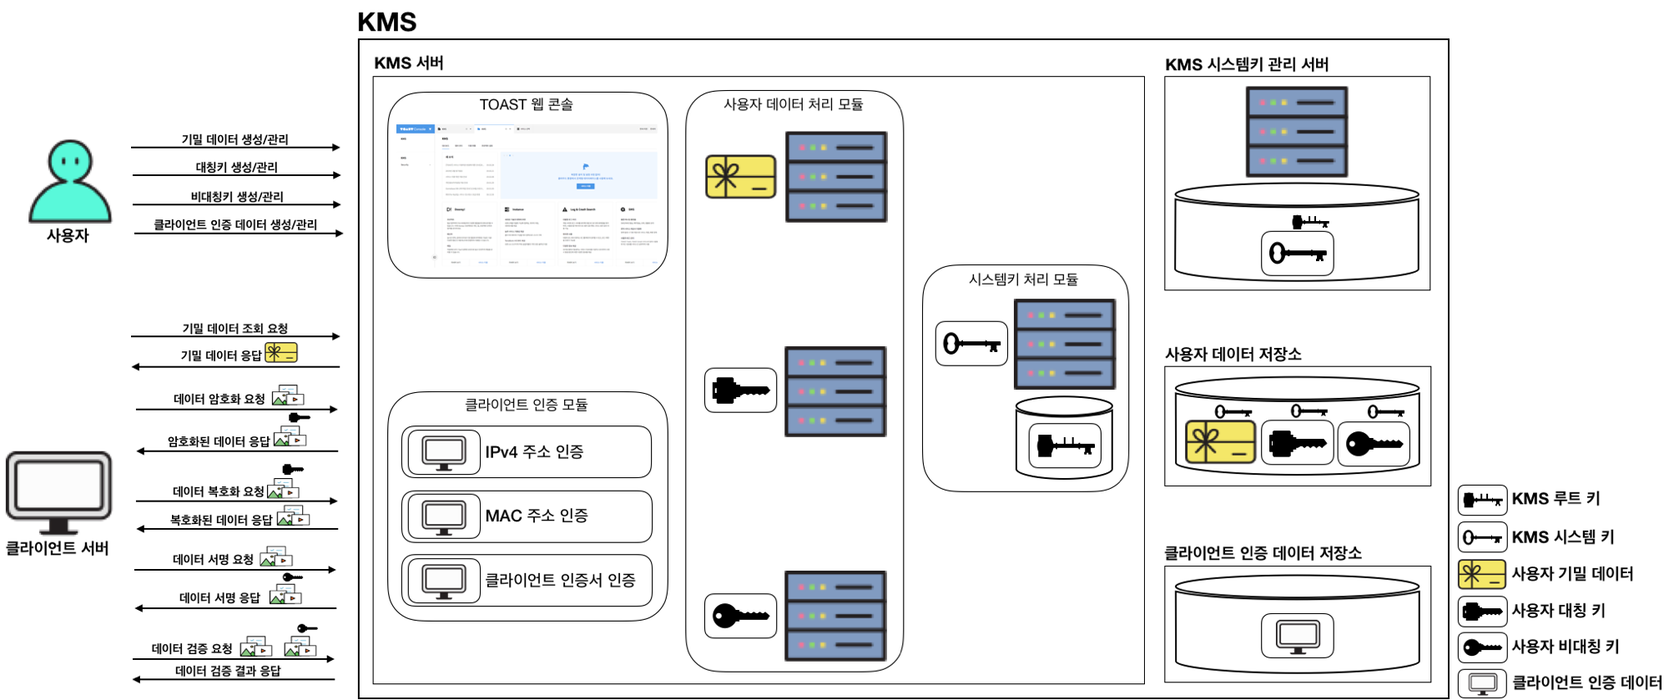
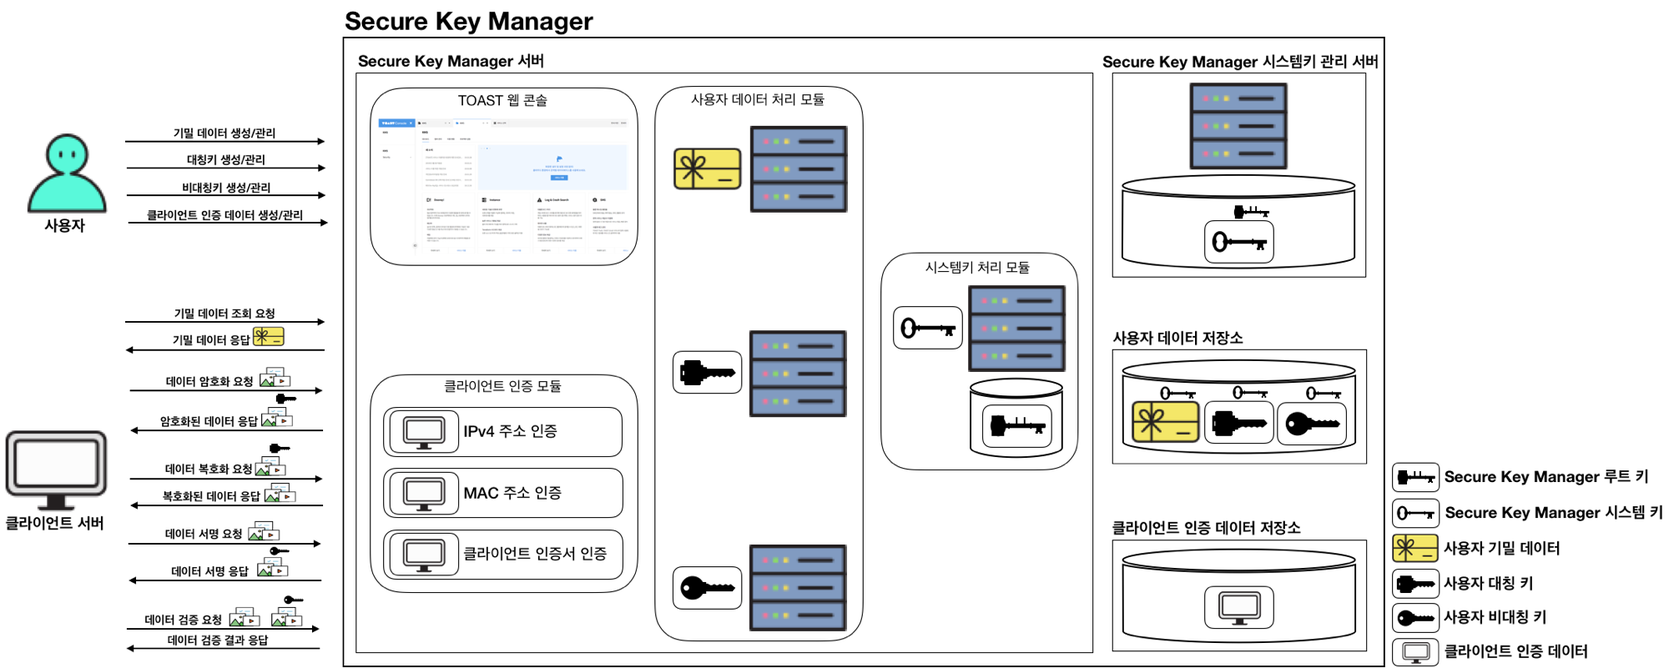
#인프라플랫폼개발팀-업무/439 * KMS 가이드 문서 작성

diff --git a/ko/overview.md b/ko/overview.md
@@ -1,5 +1,5 @@
-## Security > KMS > 개요
-KMS(Key Management Service)는 사용자의 중요 데이터를 안전하게 보관하고 접근 권한을 제어하는 서비스입니다. 사용자는 KMS에 기밀 데이터, 대칭키, 비대칭키를 저장할 수 있습니다. KMS에 저장한 데이터는 사용자가 설정한 인증 방법을 통과한 클라이언트만 접근할 수 있습니다.
+## Security > Secure Key Manager > 개요
+Secure Key Manager는 사용자의 중요 데이터를 안전하게 보관하고 접근 권한을 제어하는 서비스입니다. 사용자는 Secure Key Manager에 기밀 데이터, 대칭키, 비대칭키를 저장할 수 있습니다. Secure Key Manager에 저장한 데이터는 사용자가 설정한 인증 방법을 통과한 클라이언트만 접근할 수 있습니다.
 
 ### 주요 기능
 * 데이터 관리
@@ -12,44 +12,44 @@ KMS(Key Management Service)는 사용자의 중요 데이터를 안전하게 보
     * 클라이언트 인증서를 사용한 데이터 접근 제어
 
 ### 기능 설명
-KMS는 사용자의 중요 데이터를 안정하게 보관하고 접근 권한을 제어하는 기능을 제공합니다. KMS로 관리할 수 있는 데이터는 기밀 데이터, 대칭키, 비대칭키로 구분할 수 있습니다.
+Secure Key Manager는 사용자의 중요 데이터를 안정하게 보관하고 접근 권한을 제어하는 기능을 제공합니다. Secure Key Manager로 관리할 수 있는 데이터는 기밀 데이터, 대칭키, 비대칭키로 구분할 수 있습니다.
 
 #### 기밀 데이터 관리
-기밀 데이터 관리는 데이터베이스 접속 정보, API 호출에 사용하는 AppKey 등 클라이언트가 직접 관리할 경우 보안 위험에 노출될 수 있는 데이터를 관리하는 기능을 제공합니다. 사용자는 32KB 이하의 텍스트 데이터를 기밀 데이터로 등록할 수 있습니다. 등록한 기밀 데이터에는 사용자가 설정한 인증 방법을 통과한 클라이언트만 접근할 수 있습니다. 기밀 데이터 관리의 활용 방안은 "참고 - KMS 기밀 데이터 관리를 활용한 데이터베이스 접속 정보 관리"를 참고하시기 바랍니다.
+기밀 데이터 관리는 데이터베이스 접속 정보, API 호출에 사용하는 AppKey 등 클라이언트가 직접 관리할 경우 보안 위험에 노출될 수 있는 데이터를 관리하는 기능을 제공합니다. 사용자는 32KB 이하의 텍스트 데이터를 기밀 데이터로 등록할 수 있습니다. 등록한 기밀 데이터에는 사용자가 설정한 인증 방법을 통과한 클라이언트만 접근할 수 있습니다. 기밀 데이터 관리의 활용 방안은 "참고 - Secure Key Manager 기밀 데이터 관리 기능을 활용한 데이터베이스 접속 정보 관리"를 참고하시기 바랍니다.
 
 #### 대칭키 관리
-대칭키 관리는 데이터 암/복호화에 사용할 수 있는 사용자 대칭키를 관리하는 기능을 제공합니다. 사용자는 KMS에 사용자 대칭키를 생성하고 저장할 수 있습니다. 사용자가 설정한 인증 방법을 통과한 클라이언트는 KMS에 저장한 사용자 대칭키를 사용해서 32KB 이하의 텍스트 데이터를 암/복호화 할 수 있습니다. 사용자 대칭키는 어떠한 경우에도 클라이언트에 직접 노출되지 않고, API를 통한 간접적인 사용만 허용합니다. 이로 인해 사용자 대칭키가 외부로 노출되는 위험으로부터 보호할 수 있습니다. 또한 KMS의 키 회전 기능을 사용하면 클라이언트를 변경하지 않고 사용자 대칭키 값을 갱신할 수 있습니다. 대칭키 관리의 활용 방안은 - "참고 - KMS 대칭키 관리를 활용한 봉투 암호화"를 참고하시기 바랍니다.
+대칭키 관리는 데이터 암/복호화에 사용할 수 있는 사용자 대칭키를 관리하는 기능을 제공합니다. 사용자는 Secure Key Manager에 사용자 대칭키를 생성하고 저장할 수 있습니다. 사용자가 설정한 인증 방법을 통과한 클라이언트는 Secure Key Manager에 저장한 사용자 대칭키를 사용해서 32KB 이하의 텍스트 데이터를 암/복호화 할 수 있습니다. 사용자 대칭키는 어떠한 경우에도 클라이언트에 직접 노출되지 않고, API를 통한 간접적인 사용만 허용합니다. 이로 인해 사용자 대칭키가 외부로 노출되는 위험으로부터 보호할 수 있습니다. 또한 Secure Key Manager의 키 회전 기능을 사용하면 클라이언트를 변경하지 않고 사용자 대칭키 값을 갱신할 수 있습니다. 대칭키 관리의 활용 방안은 - "참고 - Secure Key Manager 대칭키 관리 기능을 활용한 봉투 암호화"를 참고하시기 바랍니다.
 
 #### 비대칭키 관리
-비대칭키 관리는 데이터 서명/검증에 사용할 수 있는 사용자 비대칭키를 관리하는 기능을 제공합니다. 사용자는 KMS에 사용자 비대칭키를 생성하고 저장할 수 있습니다. 사용자가 설정한 인증 방법을 통과한 클라이언트는 KMS에 저장한 사용자 비대칭키를 사용해서 4KB 이하의 텍스트 데이터를 서명/검증할 수 있습니다. 사용자 비대칭키는 어떠한 경우에도 클라이언트에 직접 노출되지 않고, API를 통한 간접적인 사용만 허용합니다. 이로 인해 사용자 비대칭키가 외부로 노출되는 위험으로부터 보호할 수 있습니다. 또한 KMS의 키 회전 기능을 사용하면 클라이언트를 변경하지 않고 사용자 비대칭키 값을 갱신할 수 있습니다.
+비대칭키 관리는 데이터 서명/검증에 사용할 수 있는 사용자 비대칭키를 관리하는 기능을 제공합니다. 사용자는 Secure Key Manager에 사용자 비대칭키를 생성하고 저장할 수 있습니다. 사용자가 설정한 인증 방법을 통과한 클라이언트는 Secure Key Manager에 저장한 사용자 비대칭키를 사용해서 4KB 이하의 텍스트 데이터를 서명/검증할 수 있습니다. 사용자 비대칭키는 어떠한 경우에도 클라이언트에 직접 노출되지 않고, API를 통한 간접적인 사용만 허용합니다. 이로 인해 사용자 비대칭키가 외부로 노출되는 위험으로부터 보호할 수 있습니다. 또한 Secure Key Manager의 키 회전 기능을 사용하면 클라이언트를 변경하지 않고 사용자 비대칭키 값을 갱신할 수 있습니다.
 
 #### 접근 제어
-KMS는 사용자 데이터를 보호하기 위한 다양한 인증 방법을 제공합니다. 사용자가 설정한 인증 방법을 통과한 클라이언트만 KMS에 저장한 데이터를 사용할 수 있습니다. 인증 방법은 클라이언트의 IPv4 주소를 확인하는 IPv4 주소 인증, 클라이언트의 MAC 주소를 확인하는 MAC 주소 인증, 클라이언트가 통신에 사용하는 인증서를 확인하는 클라이언트 인증서 인증으로 구분합니다. 사용자는 최소 한 개 이상의 인증 방법을 선택해야 하며, 두 개 이상을 선택한 경우 클라이언트는 모든 인증을 통과해야 합니다.
+Secure Key Manager는 사용자 데이터를 보호하기 위한 다양한 인증 방법을 제공합니다. 사용자가 설정한 인증 방법을 통과한 클라이언트만 Secure Key Manager에 저장한 데이터를 사용할 수 있습니다. 인증 방법은 클라이언트의 IPv4 주소를 확인하는 IPv4 주소 인증, 클라이언트의 MAC 주소를 확인하는 MAC 주소 인증, 클라이언트가 통신에 사용하는 인증서를 확인하는 클라이언트 인증서 인증으로 구분합니다. 사용자는 최소 한 개 이상의 인증 방법을 선택해야 하며, 두 개 이상을 선택한 경우 클라이언트는 모든 인증을 통과해야 합니다.
 
 ### 서비스 구조
-KMS는 사용자 데이터를 안전하게 보관하기 위해 루트키와 시스템키라는 두 개의 암호키를 내부적으로 사용합니다. 루트키는 시스템키를 보호하기 위한 목적으로 사용하며 시스템키는 사용자 데이터를 보호하기 위한 목적으로 사용합니다. 시스템키는 루트키로 암호화해서 KMS 시스템키 관리 서버에 저장합니다. KMS 서버는 서비스를 시작할 때 인증 과정을 거쳐서 KMS 시스템키 관리 서버로부터 암호화된 시스템키를 가져옵니다. 루트키를 사용해서 복호화하면 시스템키 처리 모듈이 시스템키를 사용할 수 있는 상태가 됩니다. KMS에 저장한 사용자 데이터를 비정상적인 방법으로 접근하려면 물리적으로 분리된 세 개의 시스템에서 루트키, 시스템키, 사용자 데이터를 모두 획득해야 합니다.
+Secure Key Manager는 사용자 데이터를 안전하게 보관하기 위해 루트키와 시스템키라는 두 개의 암호키를 내부적으로 사용합니다. 루트키는 시스템키를 보호하기 위한 목적으로 사용하며 시스템키는 사용자 데이터를 보호하기 위한 목적으로 사용합니다. 시스템키는 루트키로 암호화해서 Secure Key Manager 시스템키 관리 서버에 저장합니다. Secure Key Manager 서버는 서비스를 시작할 때 인증 과정을 거쳐서 Secure Key Manager 시스템키 관리 서버로부터 암호화된 시스템키를 가져옵니다. 루트키를 사용해서 복호화하면 시스템키 처리 모듈이 시스템키를 사용할 수 있는 상태가 됩니다. Secure Key Manager에 저장한 사용자 데이터를 비정상적인 방법으로 접근하려면 물리적으로 분리된 세 개의 시스템에서 루트키, 시스템키, 사용자 데이터를 모두 획득해야 합니다.
 
-사용자는 TOAST 웹 콘솔에서 KMS를 관리할 수 있습니다. 웹 콘솔은 사용자 데이터 생성/관리, 클라이언트 인증 데이터 생성/관리 등의 기능을 제공합니다. KMS에서 생성한 모든 사용자 데이터는 시스템키로 암호화해서 사용자 데이터 저장소에 저장합니다. 클라이언트 인증 데이터는 일부 중요 정보를 시스템키로 암호화해서 클라이언트 인증 데이터 저장소에 저장합니다.
+사용자는 TOAST 웹 콘솔에서 Secure Key Manager를 관리할 수 있습니다. 웹 콘솔은 사용자 데이터 생성/관리, 클라이언트 인증 데이터 생성/관리 등의 기능을 제공합니다. Secure Key Manager에서 생성한 모든 사용자 데이터는 시스템키로 암호화해서 사용자 데이터 저장소에 저장합니다. 클라이언트 인증 데이터는 일부 중요 정보를 시스템키로 암호화해서 클라이언트 인증 데이터 저장소에 저장합니다.
 
-KMS는 클라이언트 서버에서 사용할 수 있는 다양한 API를 제공합니다. 클라이언트 서버는 기밀 데이터 조회, 대창키를 사용한 암/복호화, 비대칭키를 사용한 서명/검증을 요청할 수 있습니다. 클라이언트 인증 모듈은 클라이언트 인증 데이터를 사용해서 클라이언트의 요청을 허가할지 결정합니다. 클라이언트의 요청이 허가되면 사용자 데이터 처리 모듈은 시스템키 처리 모듈을 사용해서 암호화된 사용자 데이터를 복호화한 후 서비스를 제공합니다.
+Secure Key Manager는 클라이언트 서버에서 사용할 수 있는 다양한 API를 제공합니다. 클라이언트 서버는 기밀 데이터 조회, 대창키를 사용한 암/복호화, 비대칭키를 사용한 서명/검증을 요청할 수 있습니다. 클라이언트 인증 모듈은 클라이언트 인증 데이터를 사용해서 클라이언트의 요청을 허가할지 결정합니다. 클라이언트의 요청이 허가되면 사용자 데이터 처리 모듈은 시스템키 처리 모듈을 사용해서 암호화된 사용자 데이터를 복호화한 후 서비스를 제공합니다.
 
 ![.](../images/overview-001.png)
 
 ### 참고
 
-#### KMS 기밀 데이터 관리를 활용한 데이터베이스 접속 정보 관리
+#### Secure Key Manager 기밀 데이터 관리 기능을 활용한 데이터베이스 접속 정보 관리
 데이터베이스를 사용하는 애플리케이션은 데이터베이스 접속 정보를 설정 파일에 저장합니다. 애플리케이션을 실행하는 서버가 증가하면 데이터베이스 접속 정보를 저장하는 서버가 증가하고, 데이터베이스 접속 정보가 노출될 위험도 함께 증가합니다. 또한 데이터베이스 접속 정보를 변경하면 설정을 수정한 후 전체 서버에 재배포를 해야 하는 불편함이 있습니다.
-KMS 기밀 데이터 관리 기능을 활용하면 데이터베이스 접속 정보를 중앙 집중적으로 안전하게 관리할 수 있습니다. 데이터베이스 접속이 필요한 애플리케이션은 서비스를 시작할 때 KMS에서 데이터베이스 접속 정보를 가져와서 사용합니다. 사용자는 KMS를 통해서 데이터베이스 접근을 허용할 애플리케이션 서버를 관리할 수 있습니다. 데이터베이스 접속 정보를 변경해도 애플리케이션을 수정할 필요 없이 KMS에서 접속 정보를 갱신할 수 있습니다.
+Secure Key Manager 기밀 데이터 관리 기능을 활용하면 데이터베이스 접속 정보를 중앙 집중적으로 안전하게 관리할 수 있습니다. 데이터베이스 접속이 필요한 애플리케이션은 서비스를 시작할 때 Secure Key Manager에서 데이터베이스 접속 정보를 가져와서 사용합니다. 사용자는 Secure Key Manager를 통해서 데이터베이스 접근을 허용할 애플리케이션 서버를 관리할 수 있습니다. 데이터베이스 접속 정보를 변경해도 애플리케이션을 수정할 필요 없이 Secure Key Manager에서 접속 정보를 갱신할 수 있습니다.
 
-#### KMS 대칭키 관리를 활용한 봉투 암호화
-KMS는 데이터를 암/복호화 할 수 있는 대칭키 관리 기능을 제공합니다. 애플리케이션은 KMS API를 사용해서 원하는 데이터를 암/복호화 할 수 있습니다. 그러나 애플리케이션이 처리하는 모든 데이터를 KMS API로 암/복호화 하면 성능 및 비용 문제가 발생할 수 있습니다. 이러한 상황에서 일반적으로 사용하는 해결책은 봉투 암호화 기법입니다. 봉투 암호화는 암호화 대상 데이터를 암호화 할 때 사용한 암호키만 외부의 다른 암호키로 보호하는 처리 방식입니다. 데이터는 애플리케이션이 자체적으로 관리하는 로컬 암호키를 사용해서 암호화하고, 로컬 암호키는 KMS API로 암호화해서 보관합니다. 데이터 복호화가 필요하면 암호화된 로컬 암호키를 KMS API로 복호화해서 데이터 복호화에 사용합니다.
+#### Secure Key Manager 대칭키 관리 기능을 활용한 봉투 암호화
+Secure Key Manager는 데이터를 암/복호화 할 수 있는 대칭키 관리 기능을 제공합니다. 애플리케이션은 Secure Key Manager API를 사용해서 원하는 데이터를 암/복호화 할 수 있습니다. 그러나 애플리케이션이 처리하는 모든 데이터를 Secure Key Manager API로 암/복호화 하면 성능 및 비용 문제가 발생할 수 있습니다. 이러한 상황에서 일반적으로 사용하는 해결책은 봉투 암호화 기법입니다. 봉투 암호화는 암호화 대상 데이터를 암호화 할 때 사용한 암호키만 외부의 다른 암호키로 보호하는 처리 방식입니다. 데이터는 애플리케이션이 자체적으로 관리하는 로컬 암호키를 사용해서 암호화하고, 로컬 암호키는 Secure Key Manager API로 암호화해서 보관합니다. 데이터 복호화가 필요하면 암호화된 로컬 암호키를 Secure Key Manager API로 복호화해서 데이터 복호화에 사용합니다.
 
 #### 용어 설명
 | 용어 | 설명 |
 |---|---|
 | 키 저장소 | 사용자 데이터를 저장하고 인증 방법을 설정하는 단위 |
-| 키 | KMS에서 관리하는 사용자 데이터(기밀 데이터, 대칭키, 비대칭키) |
-| 인증 방법 | KMS에 저장한 사용자 데이터에 클라이언트가 접근할 수 있는지 판단하는 방법 |
-| 인증 데이터 | KMS에 저장한 사용자 데이터에 접근을 허용하는 클라이언트 정보 |
+| 키 | Secure Key Manager에서 관리하는 사용자 데이터(기밀 데이터, 대칭키, 비대칭키) |
+| 인증 방법 | Secure Key Manager에 저장한 사용자 데이터에 클라이언트가 접근할 수 있는지 판단하는 방법 |
+| 인증 데이터 | Secure Key Manager에 저장한 사용자 데이터에 접근을 허용하는 클라이언트 정보 |
 | 키 회전 | 대칭키와 비대칭키의 키 아이디를 유지한 채로 키값만 갱신하는 작업 |
 | 키 버전 | 대칭키와 비대칭키의 키 회전이 발생할 때마다 증가하는 값 |

diff --git a/ko/api-guide-v1.0.md b/ko/api-guide-v1.0.md
@@ -1,24 +1,25 @@
 
-## Security > KMS > API v1.0 가이드
+## Security > Secure Key Manager > API v1.0 가이드
 
-KMS는 사용자 데이터에 접근할 수 있는 다양한 API를 제공합니다. 클라이언트는 키 저장소에 설정한 인증을 통과한 후 KMS에 저장한 데이터를 사용할 수 있습니다.
+Secure Key Manager는 사용자 데이터에 접근할 수 있는 다양한 API를 제공합니다. 클라이언트는 키 저장소에 설정한 인증을 통과한 후 Secure Key Manager에 저장한 데이터를 사용할 수 있습니다.
 
 [API 목록]
 
 | Method | URI | 설명 |
 |---|---|---|
-| GET | kms/v1.0/appkey/{appkey}/confirm | API를 호출한 클라이언트 정보를 제공합니다. |
-| GET | kms/v1.0/appkey/{appkey}/secrets/{keyid} | KMS에 저장한 기밀 데이터를 조회합니다. |
-| POST | kms/v1.0/appkey/{appkey}/symmetric-keys/{keyid}/encrypt | KMS에 저장한 대칭키로 데이터를 암호화합니다. |
-| POST | kms/v1.0/appkey/{appkey}/symmetric-keys/{keyid}/decrypt | KMS에 저장한 대칭키로 데이터를 복호화합니다. |
-| POST | kms/v1.0/appkey/{appkey}/symmetric-keys/{keyid}/create-local-key | 클라이언트가 로컬 환경에서 데이터 암/복호화에 사용할 수 있는 AES-256 대칭키를 생성합니다. |
-| POST | kms/v1.0/appkey/{appkey}/asymmetric-keys/{keyid}/sign | KMS에 저장한 비대칭키로 데이터를 서명합니다. |
-| POST | kms/v1.0/appkey/{appkey}/asymmetric-keys/{keyid}/verify | KMS에 저장한 비대칭키로 데이터와 서명을 검증합니다. |
+| GET | /keymanager/v1.0/appkey/{appkey}/confirm | API를 호출한 클라이언트 정보를 제공합니다. |
+| GET | /keymanager/v1.0/appkey/{appkey}/secrets/{keyid} | Secure Key Manager에 저장한 기밀 데이터를 조회합니다. |
+| POST | /keymanager/v1.0/appkey/{appkey}/symmetric-keys/{keyid}/encrypt | Secure Key Manager에 저장한 대칭키로 데이터를 암호화합니다. |
+| POST | /keymanager/v1.0/appkey/{appkey}/symmetric-keys/{keyid}/decrypt | Secure Key Manager에 저장한 대칭키로 데이터를 복호화합니다. |
+| POST | /keymanager/v1.0/appkey/{appkey}/symmetric-keys/{keyid}/create-local-key | 클라이언트가 로컬 환경에서 데이터 암/복호화에 사용할 수 있는 AES-256 대칭키를 생성합니다. |
+| POST | /keymanager/v1.0/appkey/{appkey}/asymmetric-keys/{keyid}/sign | Secure Key Manager에 저장한 비대칭키로 데이터를 서명합니다. |
+| POST | /keymanager/v1.0/appkey/{appkey}/asymmetric-keys/{keyid}/verify | Secure Key Manager에 저장한 비대칭키로 데이터와 서명을 검증합니다. |
 
 [API 요청의 HTTP 헤더]
-KMS의 MAC 주소 인증을 사용하려면 HTTP 헤더에 클라이언트 MAC 주소를 설정해서 요청해야 합니다.
+
+Secure Key Manager의 MAC 주소 인증을 사용하려면 HTTP 헤더에 클라이언트 MAC 주소를 설정해서 요청해야 합니다.
 ```
-X-TOAST-KMS-CLIENT-MAC-ADDR: {MAC 주소}
+X-TOAST-CLIENT-MAC-ADDR: {MAC 주소}
 ```
 
 [API 요청의 경로 변수]
@@ -50,7 +51,7 @@ X-TOAST-KMS-CLIENT-MAC-ADDR: {MAC 주소}
 ### 클라이언트 정보 조회
 API를 호출한 클라이언트 정보를 조회할 때 사용합니다.
 ```
-GET https://api-kms.cloud.toast.com/kms/v1.0/appkey/{appkey}/confirm
+GET https://api-keymanager.cloud.toast.com/keymanager/v1.0/appkey/{appkey}/confirm
 ```
 [Response Body]
 ```
@@ -72,9 +73,9 @@ GET https://api-kms.cloud.toast.com/kms/v1.0/appkey/{appkey}/confirm
 | clientSentCertificate | Boolean | API를 호출한 클라이언트가 인증서를 사용하고 있는지 여부 |
 
 ### 기밀 데이터 조회
-KMS에 저장한 기밀 데이터를 조회할 때 사용합니다.
+Secure Key Manager에 저장한 기밀 데이터를 조회할 때 사용합니다.
 ```
-GET https://api-kms.cloud.toast.com/kms/v1.0/appkey/{appkey}/secrets/{keyid}
+GET https://api-keymanager.cloud.toast.com/keymanager/v1.0/appkey/{appkey}/secrets/{keyid}
 ```
 
 [Response Body]
@@ -93,9 +94,9 @@ GET https://api-kms.cloud.toast.com/kms/v1.0/appkey/{appkey}/secrets/{keyid}
 | secret | String | 기밀 데이터 조회 결과 |
 
 ### 대칭키 암호화
-KMS에 생성한 대칭키로 데이터를 암호화할 때 사용합니다. 사용자는 32KB 이하의 텍스트 데이터를 전달해서 KMS에 저장한 대칭키로 암호화할 수 있습니다.
+Secure Key Manager에 생성한 대칭키로 데이터를 암호화할 때 사용합니다. 사용자는 32KB 이하의 텍스트 데이터를 전달해서 Secure Key Manager에 저장한 대칭키로 암호화할 수 있습니다.
 ```
-POST https://api-kms.cloud.toast.com/kms/v1.0/appkey/{appkey}/symmetric-keys/{keyid}/encrypt
+POST https://api-keymanager.cloud.toast.com/keymanager/v1.0/appkey/{appkey}/symmetric-keys/{keyid}/encrypt
 ```
 
 [Request Body]
@@ -124,9 +125,9 @@ POST https://api-kms.cloud.toast.com/kms/v1.0/appkey/{appkey}/symmetric-keys/{ke
 | ciphertext | String | 대칭키로 데이터를 암호화한 결과 |
 
 ## 대칭키 복호화
-KMS에 생성한 대칭키로 데이터를 복호화 할 때 사용합니다. 사용자는 암호화된 텍스트를 전달해서 KMS에 저장한 대칭키로 복호화 할 수 있습니다.
+Secure Key Manager에 생성한 대칭키로 데이터를 복호화 할 때 사용합니다. 사용자는 암호화된 텍스트를 전달해서 Secure Key Manager에 저장한 대칭키로 복호화 할 수 있습니다.
 ```
-POST https://api-kms.cloud.toast.com/kms/v1.0/appkey/{appkey}/symmetric-keys/{keyid}/decrypt
+POST https://api-keymanager.cloud.toast.com/keymanager/v1.0/appkey/{appkey}/symmetric-keys/{keyid}/decrypt
 ```
 
 [Request Body]
@@ -155,9 +156,9 @@ POST https://api-kms.cloud.toast.com/kms/v1.0/appkey/{appkey}/symmetric-keys/{ke
 | plaintext | String | 대칭키로 데이터를 복호화한 결과 |
 
 ### 대칭키로 암호화한 로컬 대칭키 생성
-클라이언트가 로컬 환경에서 사용할 수 있는 AES-256 대칭키를 생성할 때 사용합니다. localKeyPlaintext는 생성한 대칭키를 Base64 인코딩한 형태이며 Base64 디코딩 후 바로 사용할 수 있습니다. localKeyCiphertext는 생성한 대칭키를 KMS에 저장한 대칭키로 암호화한 후 Base64 인코딩한 형태이며 스토리지에 저장할 때 사용합니다. 스토리지에 저장한 대칭키는 복호화 API를 사용해서 복호화 한 후 사용할 수 있습니다.
+클라이언트가 로컬 환경에서 사용할 수 있는 AES-256 대칭키를 생성할 때 사용합니다. localKeyPlaintext는 생성한 대칭키를 Base64 인코딩한 형태이며 Base64 디코딩 후 바로 사용할 수 있습니다. localKeyCiphertext는 생성한 대칭키를 Secure Key Manager에 저장한 대칭키로 암호화한 후 Base64 인코딩한 형태이며 스토리지에 저장할 때 사용합니다. 스토리지에 저장한 대칭키는 복호화 API를 사용해서 복호화 한 후 사용할 수 있습니다.
 ```
-POST https://api-kms.cloud.toast.com/kms/v1.0/appkey/{appkey}/symmetric-keys/{keyid}/create-local-key
+POST https://api-keymanager.cloud.toast.com/keymanager/v1.0/appkey/{appkey}/symmetric-keys/{keyid}/create-local-key
 ```
 
 [Response Body]
@@ -175,12 +176,12 @@ POST https://api-kms.cloud.toast.com/kms/v1.0/appkey/{appkey}/symmetric-keys/{ke
 | 값 | 타입 | 설명 |
 |---|---|---|
 | localKeyPlaintext | String | Base64 인코딩한 AES-256 대칭키 |
-| localKeyCiphertext | String | KMS에 저장한 대칭키로 암호화한 후 Base64 인코딩한 AES-256 대칭키 |
+| localKeyCiphertext | String | Secure Key Manager에 저장한 대칭키로 암호화한 후 Base64 인코딩한 AES-256 대칭키 |
 
 ### 비대칭키로 서명
-KMS에 생성한 비대칭키로 데이터를 서명할 때 사용합니다. 사용자는 4KB 이하의 텍스트 데이터를 전달해서 KMS에 저장한 비대칭키로 서명할 수 있습니다.
+Secure Key Manager에 생성한 비대칭키로 데이터를 서명할 때 사용합니다. 사용자는 4KB 이하의 텍스트 데이터를 전달해서 Secure Key Manager에 저장한 비대칭키로 서명할 수 있습니다.
 ```
-POST https://api-kms.cloud.toast.com/kms/v1.0/appkey/{appkey}/asymmetric-keys/{keyid}/sign
+POST https://api-keymanager.cloud.toast.com/keymanager/v1.0/appkey/{appkey}/asymmetric-keys/{keyid}/sign
 ```
 
 [Request Body]
@@ -209,9 +210,9 @@ POST https://api-kms.cloud.toast.com/kms/v1.0/appkey/{appkey}/asymmetric-keys/{k
 | signature | String | 비대칭키로 데이터를 서명한 서명값 |
 
 ### 비대칭키로 데이터 검증
-KMS에 생성한 비대칭키로 데이터를 검증할 때 사용합니다. 사용자는 데이터와 서명 값을 전달해서 KMS에 저장한 비대칭키로 데이터가 위/변조 되지 않았음을 검증할 수 있습니다.
+Secure Key Manager에 생성한 비대칭키로 데이터를 검증할 때 사용합니다. 사용자는 데이터와 서명 값을 전달해서 Secure Key Manager에 저장한 비대칭키로 데이터가 위/변조 되지 않았음을 검증할 수 있습니다.
 ```
-POST https://api-kms.cloud.toast.com/kms/v1.0/appkey/{appkey}/asymmetric-keys/{keyid}/verify
+POST https://api-keymanager.cloud.toast.com/keymanager/v1.0/appkey/{appkey}/asymmetric-keys/{keyid}/verify
 ```
 
 [Request Body]

diff --git a/ko/console-guide.md b/ko/console-guide.md
@@ -1,12 +1,102 @@
-## Security > KMS > 콘솔 사용 가이드
+## Security > Secure Key Manager > 콘솔 사용 가이드
 
-### KMS 사용 준비 단계
+### Secure Key Manager 사용하기
+
+사용자는 아래 단계를 수행해서 Secure Key Manager를 사용할 수 있습니다. 각 단계에 대한 설명은 개별 항목을 참고하시기 바랍니다.
 1. 키 저장소 생성
-1. 키 저장소에 인증 정보 등록
-1. 키 저장소에 데이터 생성
+2. 인증 정보 등록
+3. 키 생성
 
-### 키 저장소 생성
+#### 키 저장소 생성
+Secure Key Manager는 키 저장소 단위로 인증 정보와 키를 관리합니다. Secure Key Manager를 처음으로 활성화하면 생성한 키 저장소가 없기 때문에 그림 1과 같은 화면을 표시합니다.
 
-### 키 저장소에 인증 정보 등록
+![.](../images/console-guide-01-001.png)
 
-### 키 저장소에 데이터 생성
+화면 중간의 [키 저장소 추가]를 클릭하면 그림 2와 같은 키 저장소 추가 모달을 실행합니다.
+
+![.](../images/console-guide-01-002.png)
+
+키 저장소 추가 모달에서 이름을 입력하고 한개 이상의 인증 방법을 선택합니다. [추가]를 클릭하면 키 저장소를 생성합니다. 키 저장소를 생성하면 그림3과 같이 키 저장소 리스트를 확인할 수 있습니다.
+
+![.](../images/console-guide-01-003.png)
+
+키 저장소 리스트의 +를 클릭하면 새로운 키 저장소를 생성할 수 있고, 이미 생성한 키 저장소 이름을 클릭하면 그림 4와 같이 키 저장소 정보를 확인할 수 있습니다.
+
+![.](../images/console-guide-01-004.png)
+
+#### 인증 정보 등록
+Secure Key Manager는 IPv4 주소 인증, MAC 주소 인증, 클라이언트 인증서 인증을 제공합니다. 키 저장소에 설정한 인증 방법을 통과한 클라이언트만 키를 사용할 수 있습니다. 클라이언트를 인증하려면 인증 관리 메뉴의 인증 유형별 하위 메뉴에서 인증 정보를 등록해야 합니다.
+
+##### IPv4 주소 등록
+IPv4 주소 관리 메뉴를 선택하면 그림 5와 같은 IPv4 주소 관리 화면을 표시합니다.
+
+![.](../images/console-guide-02-001.png)
+
+[IPv4 주소 추가]를 클릭하면 그림 6과 같이 IPv4 주소 추가 모달을 실행합니다.
+
+![.](../images/console-guide-02-002.png)
+
+API 호출을 허용할 클라이언트의 IPv4 주소를 입력한 후 [추가]를 클릭해서 IPv4 주소 인증 정보를 추가합니다. 추가한 인증 정보는 그림 7과 같이 IPv4 주소 관리 화면에서 확인할 수 있습니다.
+
+![.](../images/console-guide-02-003.png)
+
+##### MAC 주소 등록
+MAC 주소 관리 메뉴를 선택하면 그림 8과 같은 MAC 주소 관리 화면을 표시합니다.
+
+![.](../images/console-guide-03-001.png)
+
+[MAC 주소 추가]를 클릭하면 그림 9과 같이 MAC 주소 추가 모달을 실행합니다.
+
+![.](../images/console-guide-03-002.png)
+
+API 호출을 허용할 클라이언트의 MAC 주소를 입력한 후 [추가]를 클릭해서 MAC 주소 인증 정보를 추가합니다. 추가한 인증 정보는 그림 10과 같이 MAC 주소 관리 화면에서 확인할 수 있습니다.
+
+![.](../images/console-guide-03-003.png)
+
+##### 클라이언트 인증서 등록
+인증서 관리 메뉴를 선택하면 그림 11과 같은 인증서 관리 화면을 표시합니다.
+
+![.](../images/console-guide-04-001.png)
+
+[인증서 추가]를 클릭하면 그림 12와 같이 인증서 추가 모달을 실행합니다.
+
+![.](../images/console-guide-04-002.png)
+
+인증서 이름, 비밀번호, 사용 기간을 입력한 후 [추가]를 클릭해서 클라이언트 인증서를 생성할 수 있습니다. 추가한 인증 정보는 그림 13과 같이 인증서 관리 화면에서 확인할 수 있습니다. 
+
+![.](../images/console-guide-04-003.png)
+
+인증서 관리 화면에서 다운로드 아이콘을 클릭하면 인증서 파일를 다운로드 받을 수 있습니다. 인증서는 키 저장소당 최대 3개 까지만 생성할 수 있습니다.
+
+#### 키 생성
+Secure Key Manager는 3가지 유형의 키를 지원합니다. 기밀 데이터는 텍스트 형태의 모든 데이터를 관리합니다. 대칭키는 API를 사용한 암/복호화를 제공합니다. 비대칭키는 API를 사용한 서명/검증 기능을 제공합니다. 키 관리 메뉴를 선택하면 14와 같은 키 관리 화면을 표시합니다. 키 관리 화면에서 [키 추가]를 클릭하면 키 추가 모달을 실행할 수 있습니다.
+
+![.](../images/console-guide-05-001.png)
+
+##### 기밀 데이터
+키 추가 모달에서 유형을 기밀 데이터를 선택하면 그림 15와 같은 화면을 표시합니다.
+
+![.](../images/console-guide-05-002.png)
+
+키 이름과 텍스트 형태의 데이터를 입력한 후 [추가]를 클릭해서 기밀 데이터를 등록할 수 있습니다.
+
+##### 대칭키
+
+키 추가 모달에서 유형을 대칭키를 선택하면 그림 16과 같은 화면을 표시합니다.
+
+![.](../images/console-guide-05-003.png)
+
+키 이름과 회전 주기를 입력한 후 [추가]를 클릭해서 대칭키를 등록할 수 있습니다.
+
+##### 비대칭키
+
+키 추가 모달에서 유형을 대칭키를 선택하면 그림 17과 같은 화면을 표시합니다.
+
+![.](../images/console-guide-05-004.png)
+
+키 이름과 회전 주기를 입력한 후 [추가]를 클릭해서 비대칭키를 등록할 수 있습니다.
+
+
+키 추가 모달에서 추가한 키를 그림 18과 같이 키 관리 화면에서 확인할 수 있습니다.
+
+![.](../images/console-guide-05-005.png)

diff --git a/ko/secure-key-manager.md b/ko/secure-key-manager.md
@@ -1,4 +1,4 @@
-## KMS
+## Secure Key Manager
 데이터베이스 접속 정보, AppKey, 패스워드, 대칭키, 비대칭키와 같이 애플리케이션 서버에 저장할 경우 보안 위험에 노출될 수 있는 데이터를 중앙 집중적으로 안전하게 관리하고 인증을 통과한 서버만 접근할 수 있게 제어하는 서비스입니다.
 
 ### 소개
@@ -7,7 +7,7 @@
 * 데이터베이스 접속 정보, AppKey, 패스워드와 같은 기밀 데이터를 안전하게 저장하고 관리합니다. 사용자가 설정한 인증을 통과한 서버만 기밀 데이터에 접근할 수 있습니다.
 * 데이터 암/복호화에 사용하는 대칭키를 생성하고 관리합니다. 사용자가 설정한 인증을 통과한 서버만 대칭키로 데이터를 암/복호화 할 수 있습니다.
 * 데이터 서명/검증에 사용하는 비대칭키를 생성하고 관리합니다. 사용자가 설정한 인증을 통과한 서버만 비대칭키로 데이터를 서명/검증할 수 있습니다.
-* KMS가 관리하는 데이터에 접근할 수 있는 서버를 제어합니다. 인증을 통과한 서버만 데이터에 접근할 수 있으며 IP 주소 인증, MAC 주소 인증, 인증서 인증을 지원합니다.
+* Secure Key Manager 관리하는 데이터에 접근할 수 있는 서버를 제어합니다. 인증을 통과한 서버만 데이터에 접근할 수 있으며 IP 주소 인증, MAC 주소 인증, 인증서 인증을 지원합니다.
 
 #### 서비스 대상
 * 애플리케이션이 사용하는 기밀 데이터(데이터베이스 접속 정보, AppKey, 패스워드 등)를 안전하게 관리하고 싶은 사용자
